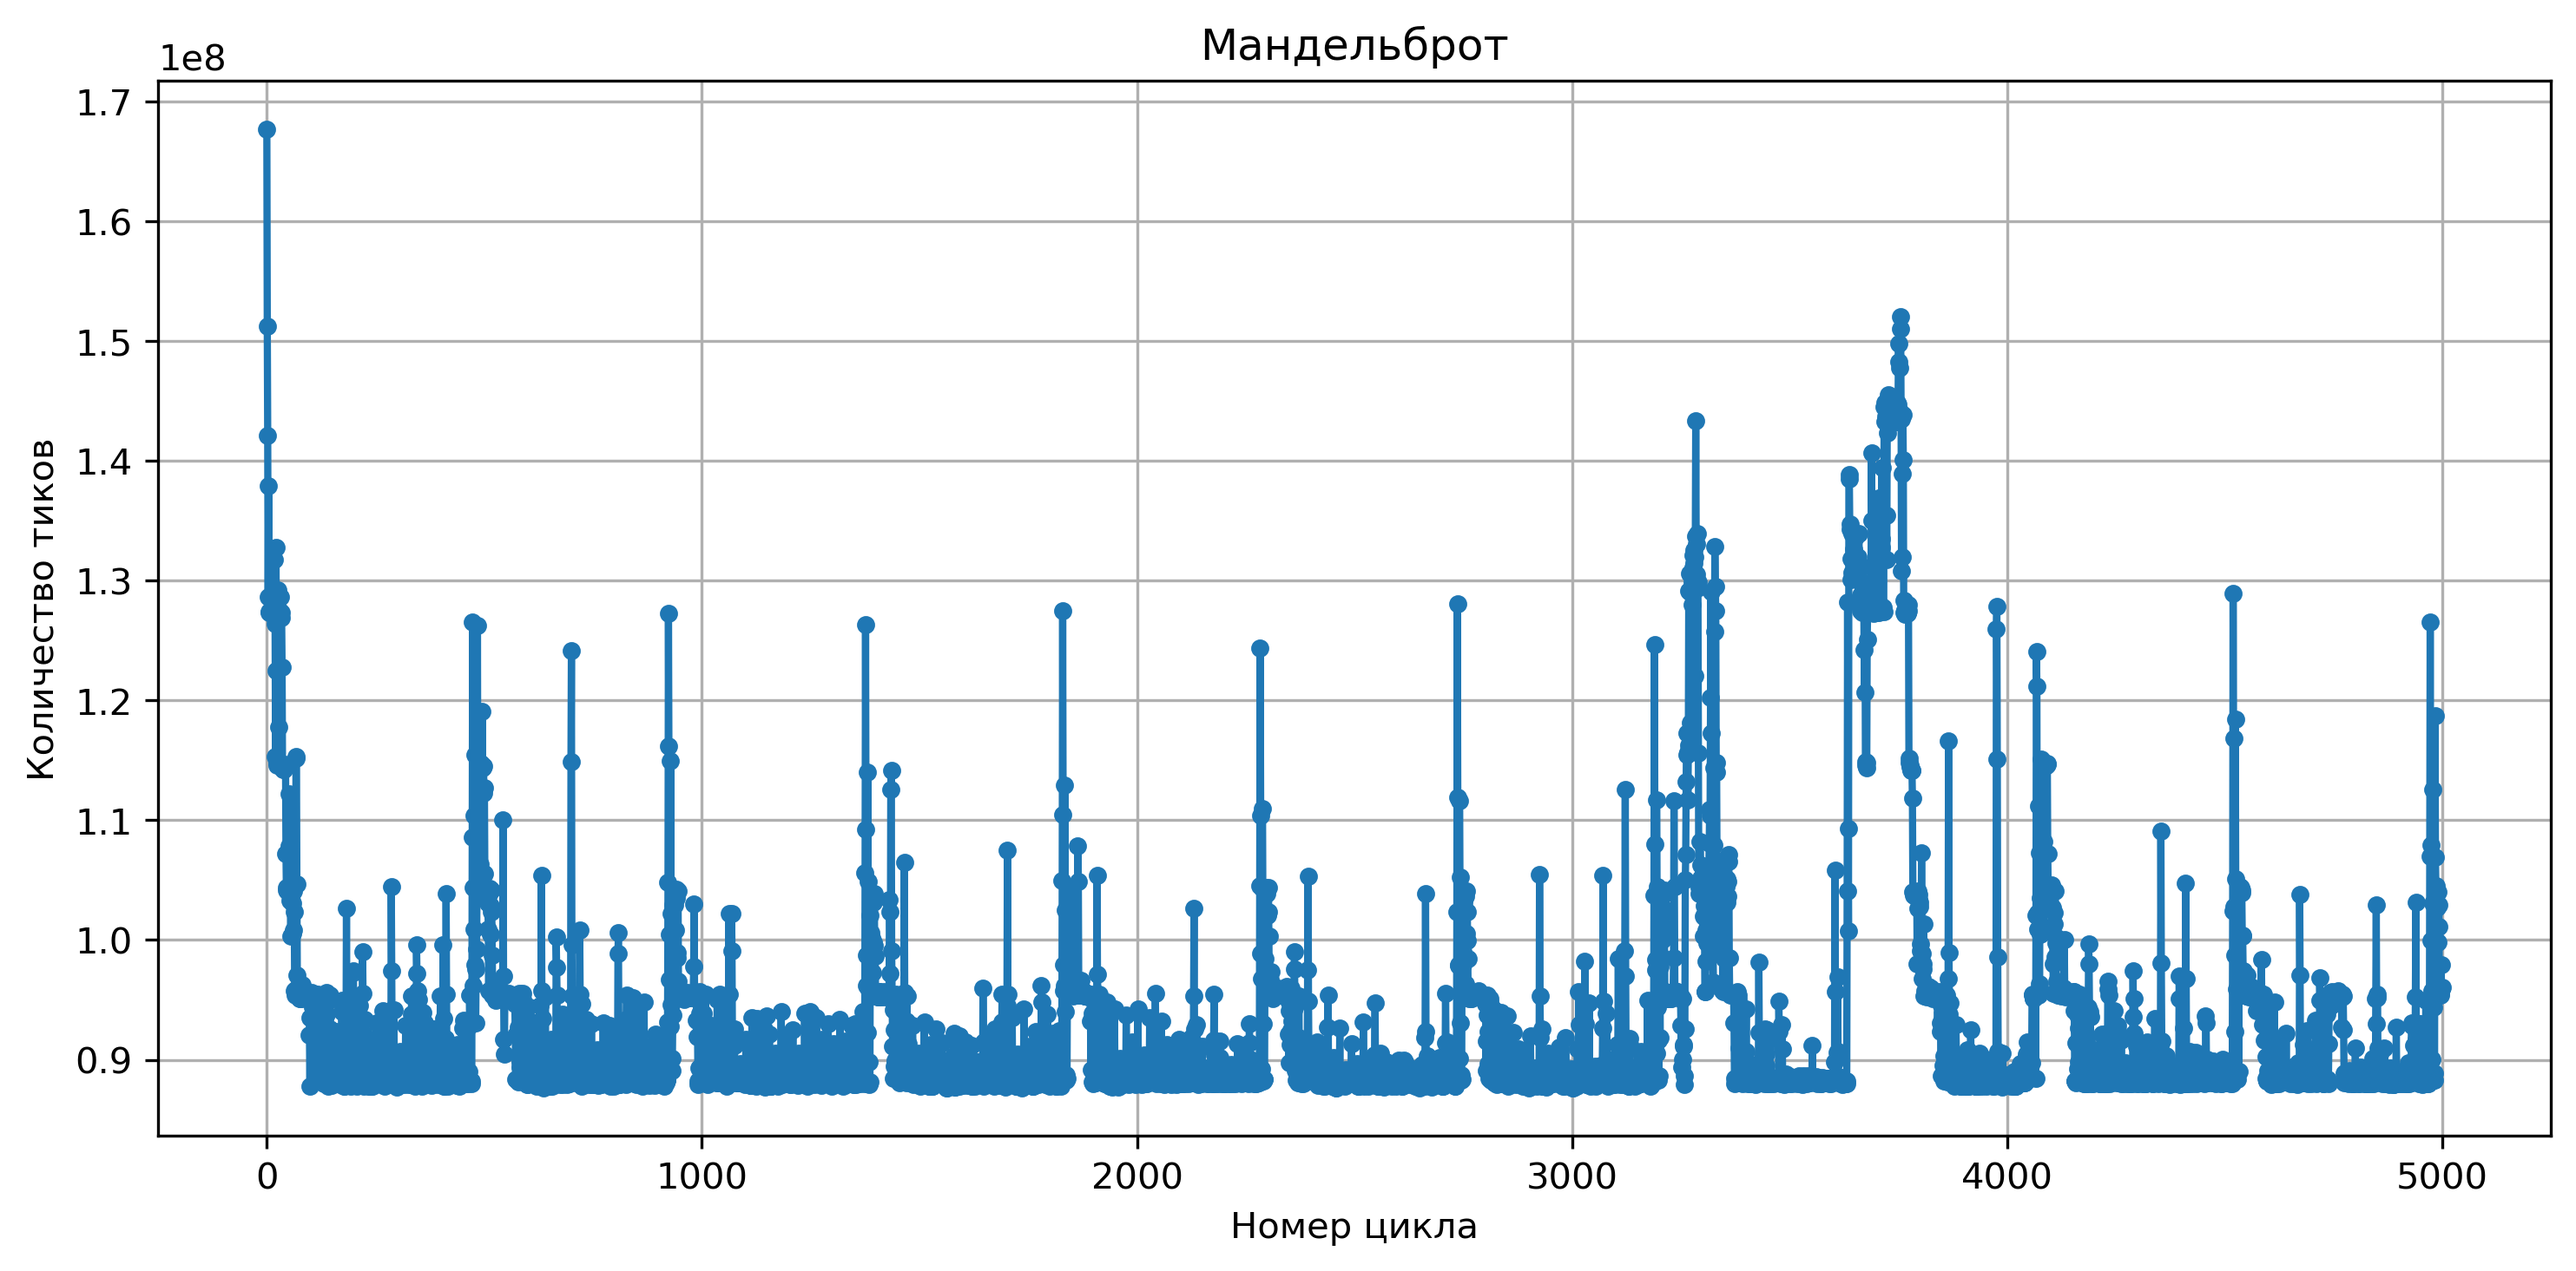
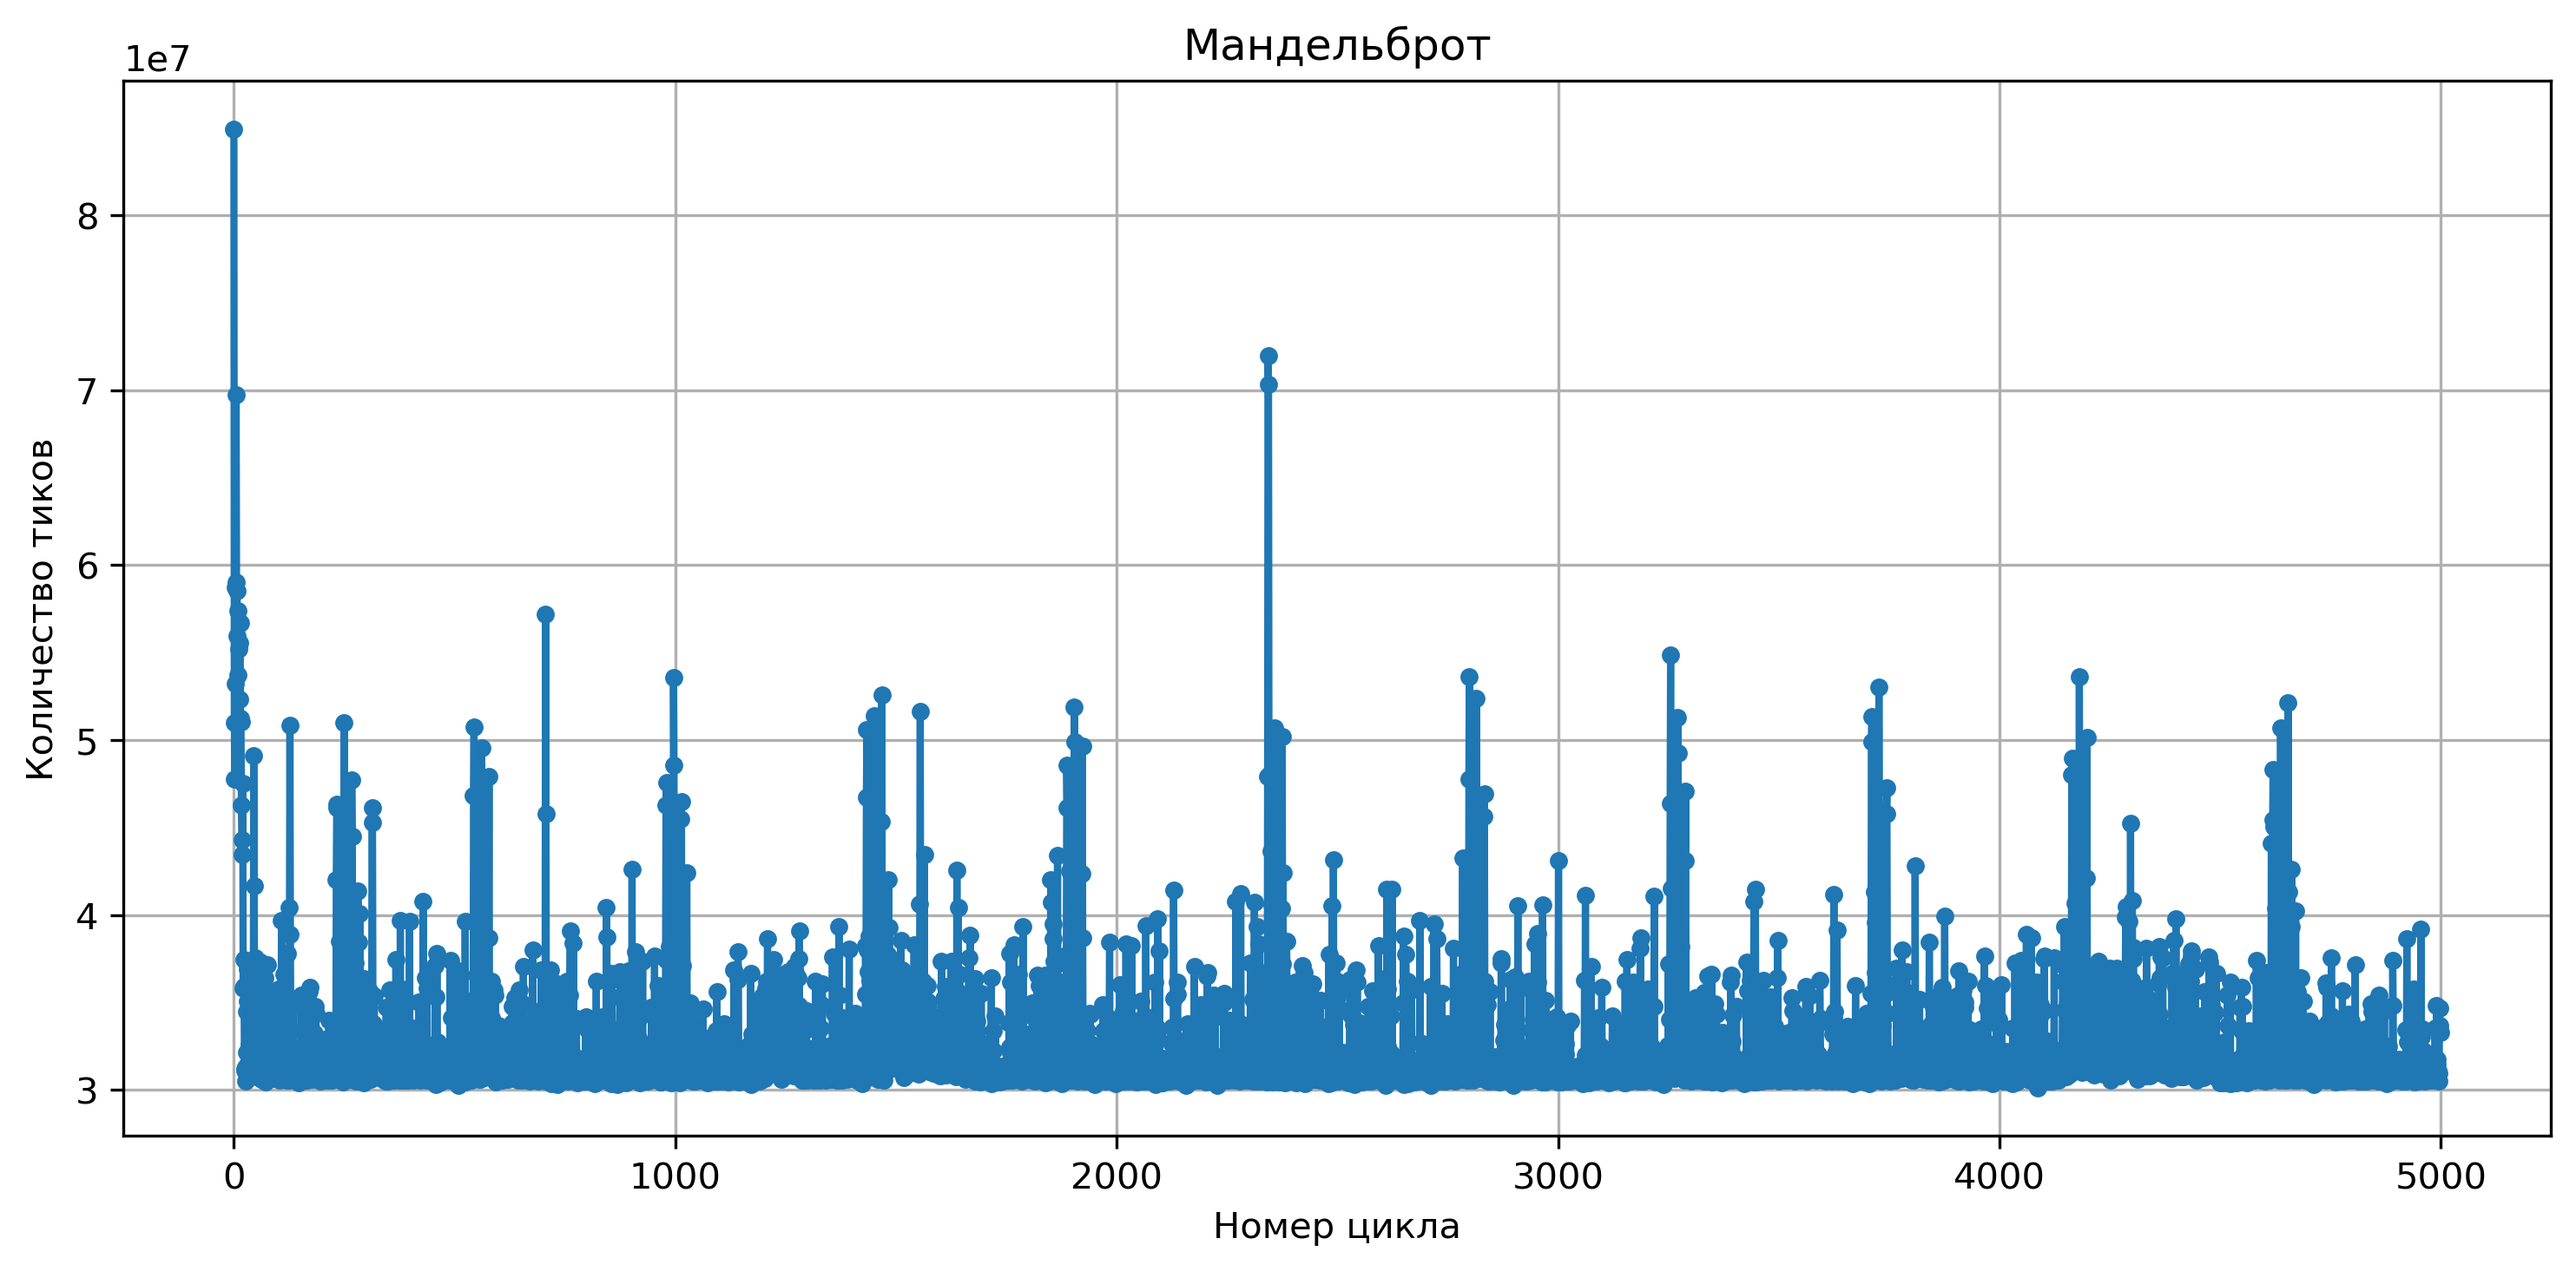
added clang & frequency locking

diff --git a/src/render_v1.cpp b/src/render_v1.cpp
@@ -7,7 +7,7 @@
 #include "render.h"
 
 //#define RENDER
-#define CYCLES 5000
+#define CYCLES 10000
 
 static const int SCREEN_WIDTH = 800;
 static const int SCREEN_HEIGHT = 600;
@@ -59,20 +59,16 @@ void Render()
 
     #else
 
-    FILE* plot = fopen("plot.file", "w+");
-    if(!plot) return;
+    uint64_t start = __rdtsc();
 
     for(size_t i = 0; i < CYCLES; i++)
     {
-        uint64_t start = __rdtsc();
         CalculatePixels(NULL);
-        uint64_t end = __rdtsc();
-
-        uint64_t cycles = end - start;
-        fprintf(plot, "%lu;", cycles);
     }
-  
-    fclose(plot);
+    uint64_t end = __rdtsc();
+
+    uint64_t cycles = end - start;
+    printf("cycles: %lu\n", cycles);
 
     #endif
 }

diff --git a/src/render_v2.cpp b/src/render_v2.cpp
@@ -7,7 +7,7 @@
 #include "render.h"
 
 //#define RENDER
-#define CYCLES 5000
+#define CYCLES 10000
 
 static const size_t UNROLLING_NUMBER = 8;
 
@@ -63,20 +63,16 @@ void Render()
 
     #else
 
-    FILE* plot = fopen("plot.file", "w+");
-    if(!plot) return;
+    uint64_t start = __rdtsc();
 
     for(size_t i = 0; i < CYCLES; i++)
     {
-        uint64_t start = __rdtsc();
         CalculatePixels(NULL);
-        uint64_t end = __rdtsc();
-
-        uint64_t cycles = end - start;
-        fprintf(plot, "%lu;", cycles);
     }
-  
-    fclose(plot);
+    uint64_t end = __rdtsc();
+
+    uint64_t cycles = end - start;
+    printf("cycles: %lu\n", cycles);
 
     #endif
 }

diff --git a/src/render_v3.cpp b/src/render_v3.cpp
@@ -10,7 +10,7 @@
 
 //#define RENDER
 
-#define CYCLES 5000
+#define CYCLES 10000
 
 static const int SCREEN_WIDTH = 800;
 static const int SCREEN_HEIGHT = 600;
@@ -63,9 +63,7 @@ void Render()
 
     #else
 
-    FILE* plot = fopen("plot.file", "w+");
-    if(!plot) return;
-
+    FILE* file = fopen("plot.data", "w+");
     for(size_t i = 0; i < CYCLES; i++)
     {
         uint64_t start = __rdtsc();
@@ -73,10 +71,9 @@ void Render()
         uint64_t end = __rdtsc();
 
         uint64_t cycles = end - start;
-        fprintf(plot, "%lu;", cycles);
+        fprintf(file, "%lu\n;", cycles);
     }
-  
-    fclose(plot);
+    fclose(file);
 
     #endif
 }

diff --git a/src/plot.py b/src/plot.py
@@ -25,4 +25,4 @@ def plot_data_from_file(filename, output_filename="graph.png"):
     plt.savefig(output_filename, dpi=300, bbox_inches='tight')
 
 
-plot_data_from_file("plot.file", "plot.png")
+plot_data_from_file("plot.data", "plot.png")

diff --git a/conclusion.md b/conclusion.md
@@ -1,10 +1,42 @@
-| Параметр | v1 | v2 | v3 |
-|----------|----|----|----|
-| система | Linux Arch 6.12.77-1-MANJARO | Linux Arch 6.12.77-1-MANJARO | Linux Arch 6.12.77-1-MANJARO |
-| CPU | Intel(R) Core(TM) i7-8550U | Intel(R) Core(TM) i7-8550U | Intel(R) Core(TM) i7-8550U |
-| опции компилятора | -02 -march=native | -02 -march=native | -02 -march=native |
-| компилятор | g++ 15.2.1 | g++ 15.2.1 | g++ 15.2.1 |
-| средняя частота CPU | ~1.8 Ghz | ~1.8 Ghz | ~1.8 Ghz |
-| количество циклов отрисовки | 5000 | 5000 | 5000 |
-| среднее количество тиков | 579 * 19^9 | 145 * 10^9 | 69 * 10^9 |
-| среднее время измерений | 4m 51s | 1m 13s | 35s |
+Различие версий:
+```
+v1 - простой вложенный цикл перебора пикселей
+v2 - развертка цикла по 8 итераций
+v3 - использование интринсиков и векторных регистров 
+```
+
+Методология измерений:
+```c++
+uint64_t start = __rdtsc();
+
+for(size_t i = 0; i < CYCLES; i++)
+{
+    CalculatePixels(NULL);
+}
+uint64_t end = __rdtsc();
+
+uint64_t cycles = end - start;
+printf("cycles: %lu\n", cycles);
+```
+
+Параметры системы:
+| Параметр | Значение |
+|----------|----------|
+| система | Linux Arch 6.12.77-1-MANJARO |
+| CPU | Intel(R) Core(TM) i7-8550U |
+| опции компилятора | -02 -march=native |
+| компилятор | g++ 15.2.1 / clang 22.1.1 |
+| зафиксированная частота CPU | 2.0 Ghz |
+
+
+Результаты измерений:
+
+| Параметр | v1 | v1_clang | v2 | v2_clang | v3 | v3_clang |
+|----------|----|----------|----|----------|----|----------|
+| количество циклов отрисовки | 10000 | 10000 | 10000 | 10000 | 10000 | 10000 |
+| среднее количество тиков | 285 * 10^9 | 304 * 10^9 | 63 * 10^9 | 79 * 19^9 | 40 * 19^9 | 41 * 19^9 |
+| среднее время измерений | 2m 23s | 2m 33s | 32s | 40s | 21s | 21s |
+
+
+График зависимости количества тиков на один цикл от номера цикла (v3):
+![График](plot.png)
